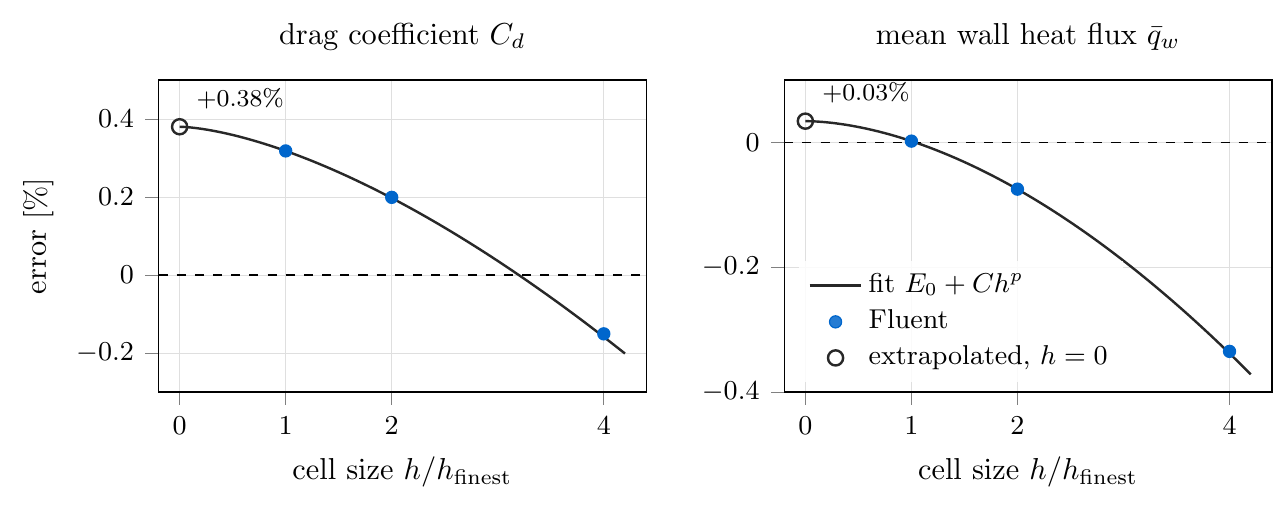
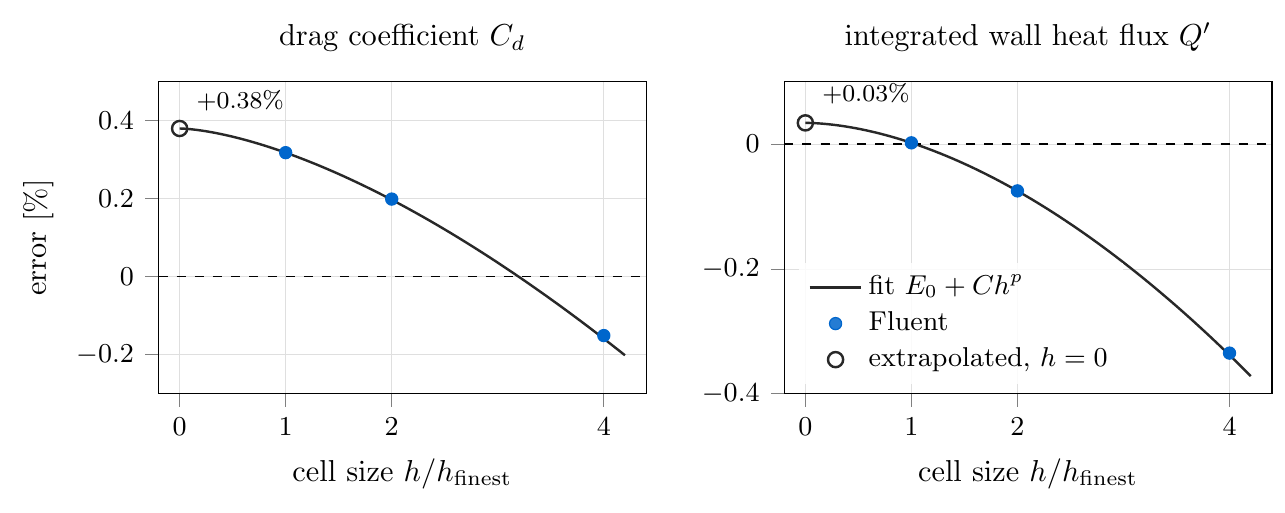
Flat plate: use integrated wall heat flux Q' in Figure 7 and tables

diff --git a/_portfolio/fluent-flat-plate.md b/_portfolio/fluent-flat-plate.md
@@ -28,8 +28,8 @@ Pohlhausen similarity solution is exact and not approximate.
 {: .caption}
 
 The quantities of interest are the skin friction $$C_f$$, the wall heat flux $$q_w$$, and the
-velocity profile across the boundary layer. The first two integrate to the plate drag and the mean cooling
-rate.
+velocity profile across the boundary layer. The first two integrate to the plate drag and the total
+heat transfer.
 
 All three are measured against the similarity solution.
 
@@ -120,8 +120,12 @@ through the fluid at the wall:
 $$q_w = -k \left.\frac{\partial T}{\partial y}\right|_{y=0}.$$
 
 It is the cooling rate, the number an engineer designs with. Its integral over the plate is the
-total heat transfer. Because $$q_w$$ depends on the temperature gradient at the wall, it tests the
-energy equation. With the Pohlhausen solution, the exact value is
+total heat transfer, per unit depth of the plate:
+
+$$Q' = \int_0^L q_w\,\mathrm{d}x \quad \mathrm{W/m}.$$
+
+Because $$q_w$$ depends on the temperature gradient at the wall, it tests the energy equation.
+With the Pohlhausen solution, the exact value is
 
 $$q_w = k\,(T_w - T_\infty)\,\theta'(0)\sqrt{\frac{U_\infty}{\nu x}} = \frac{65.339}{\sqrt{x}}\ \mathrm{W/m^2},$$
 
@@ -188,21 +192,21 @@ For $$C_d$$, the errors $$-0.151\%$$, $$+0.199\%$$, $$+0.318\%$$ give $$p = 1.56
 $$D = -0.061\%$$, and $$E_0 = +0.38\%$$ (Figure 7). The middle mesh looks the closest only because
 its negative mesh error cancels part of the positive $$E_0$$; this is why the errors keep their sign.
 
-![Convergence of the plate drag and the mean heat flux](/images/flatplate/flatplate_integrated.png)
+![Convergence of the plate drag and the integrated heat flux](/images/flatplate/flatplate_integrated.png)
 
-*Error in $$C_d$$ and $$\bar{q}_w$$ against the cell size, relative to the finest mesh. The curve
+*Error in $$C_d$$ and $$Q'$$ against the cell size, relative to the finest mesh. The curve
 $$E_0 + C h^p$$ passes through the three meshes; the circle is its value at zero cell size.*
 {: .caption}
 
 | Quantity | Coarser | Results above | Finer | $$p$$ | $$E_0$$ | GCI |
 |---|---|---|---|---|---|---|
 | Plate drag coefficient $$C_d$$ | $$-0.151\%$$ | $$+0.199\%$$ | $$+0.318\%$$ | 1.56 | $$+0.380\%$$ | 0.077% |
-| Mean wall heat flux $$\bar{q}_w$$ | $$-0.335\%$$ | $$-0.075\%$$ | $$+0.002\%$$ | 1.77 | $$+0.034\%$$ | 0.040% |
+| Integrated wall heat flux $$Q'$$ | $$-0.335\%$$ | $$-0.075\%$$ | $$+0.002\%$$ | 1.77 | $$+0.034\%$$ | 0.040% |
 | $$C_f$$, average over $$x \ge 0.1$$ | $$-0.868\%$$ | $$-0.564\%$$ | $$-0.481\%$$ | 1.88 | $$-0.450\%$$ | 0.039% |
 | $$q_w$$, average over $$x \ge 0.1$$ | $$-0.614\%$$ | $$-0.303\%$$ | $$-0.210\%$$ | 1.74 | $$-0.170\%$$ | 0.050% |
 
 The observed order, 1.56 to 1.88, is close to the formal second order; the leading-edge
-singularity lowers it ($$p = 2.01$$ at mid-plate). The GCI is below 0.08% everywhere. The mean heat
+singularity lowers it ($$p = 2.01$$ at mid-plate). The GCI is below 0.08% everywhere. The integrated heat
 flux reaches the exact value within its GCI. For the other three, $$E_0$$ exceeds the GCI, so the
 difference is not mesh error. It comes from terms that boundary-layer theory omits (of order
 $$\mathrm{Re}_x^{-1/2}$$), or from the finite domain: the bend near $$x = 1$$ in Figure 6 suggests
@@ -216,7 +220,7 @@ an effect of the outlet at the end of the plate. A larger domain would separate 
 | Wall heat flux error, $$x \geq 0.1$$ | $$\lvert E \rvert < 3\%$$ | $$-0.27\%$$ to $$-0.54\%$$ | pass |
 | Velocity profile error, 5 stations | $$< 1\%$$ | $$0.32\%$$ | pass |
 | Plate drag coefficient | — | $$4.2086 \times 10^{-3}$$ ($$+0.20\%$$) | |
-| Mean wall heat flux | — | 130.58 W/m² ($$-0.07\%$$) | |
+| Integrated wall heat flux $$Q'$$ | — | 130.58 W/m ($$-0.07\%$$) | |
 
 ### Issues and possible improvements
 
